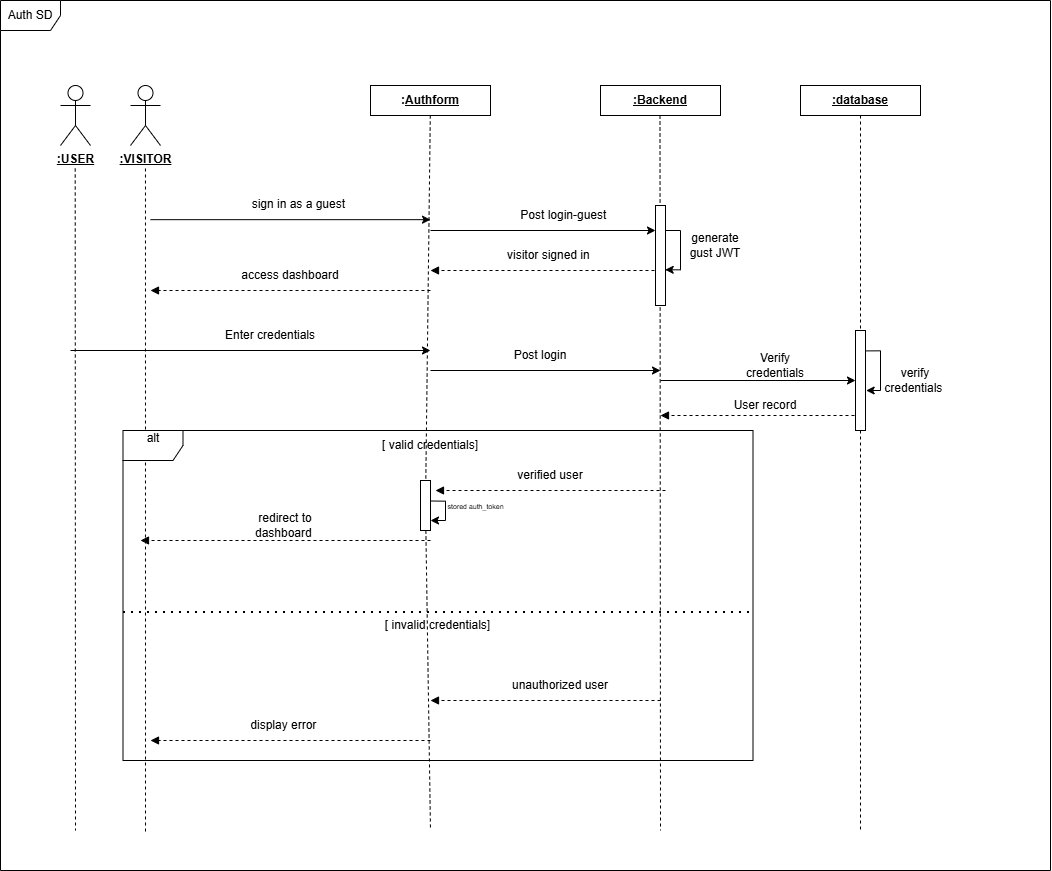
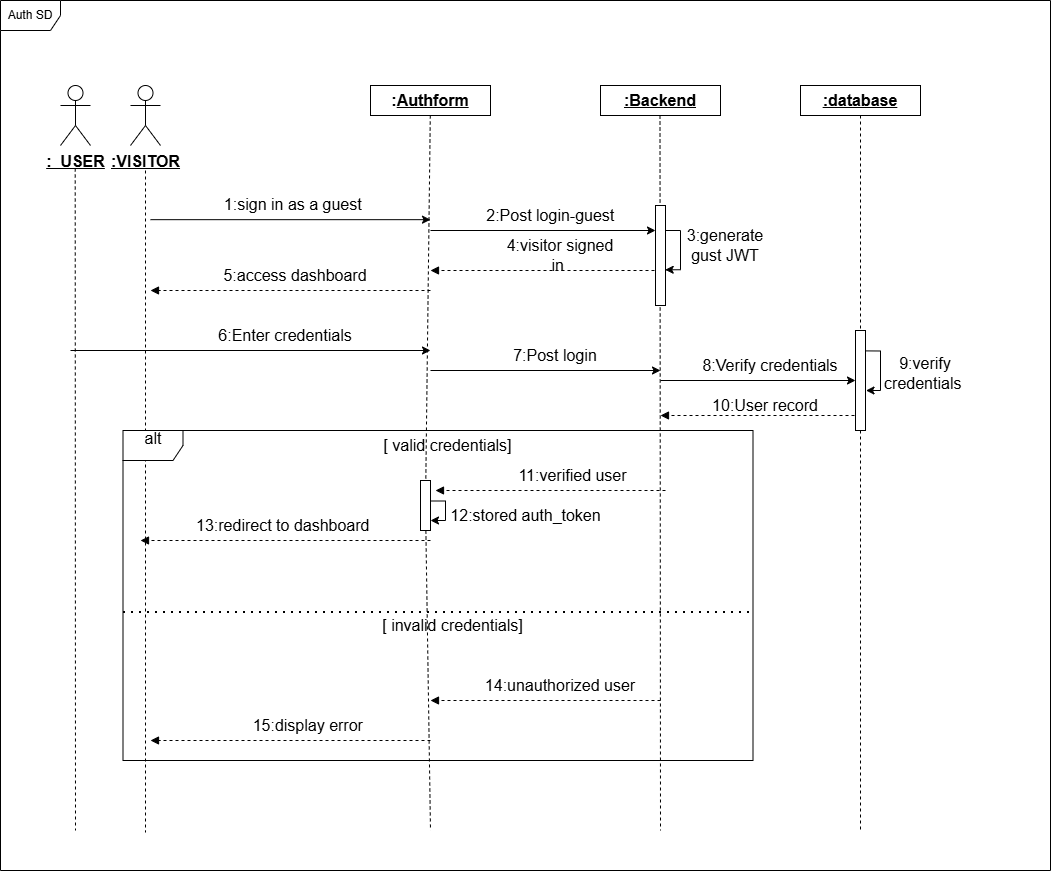
9rib

diff --git a/chapitres/chapitre4.tex b/chapitres/chapitre4.tex
@@ -175,7 +175,7 @@ Key sequences include submission-to-persistence and normalization-to-matching. F
 
 % Inline sequence diagram to keep it with the workflow and avoid large gaps
 \begin{center}
-    \includegraphics[width=0.9\textwidth]{uploads/diagrams/sprint2 sequence.drawio (3).png}\\
+    \includegraphics[width=0.9\textwidth]{uploads/diagrams/sprint2 sequence.drawio (3).png.png}\\
     \captionsetup{skip=2pt}
     \captionof{figure}{Sequence diagram for scan processing}\label{fig:sprint4-sequence-diagram}
 \end{center}